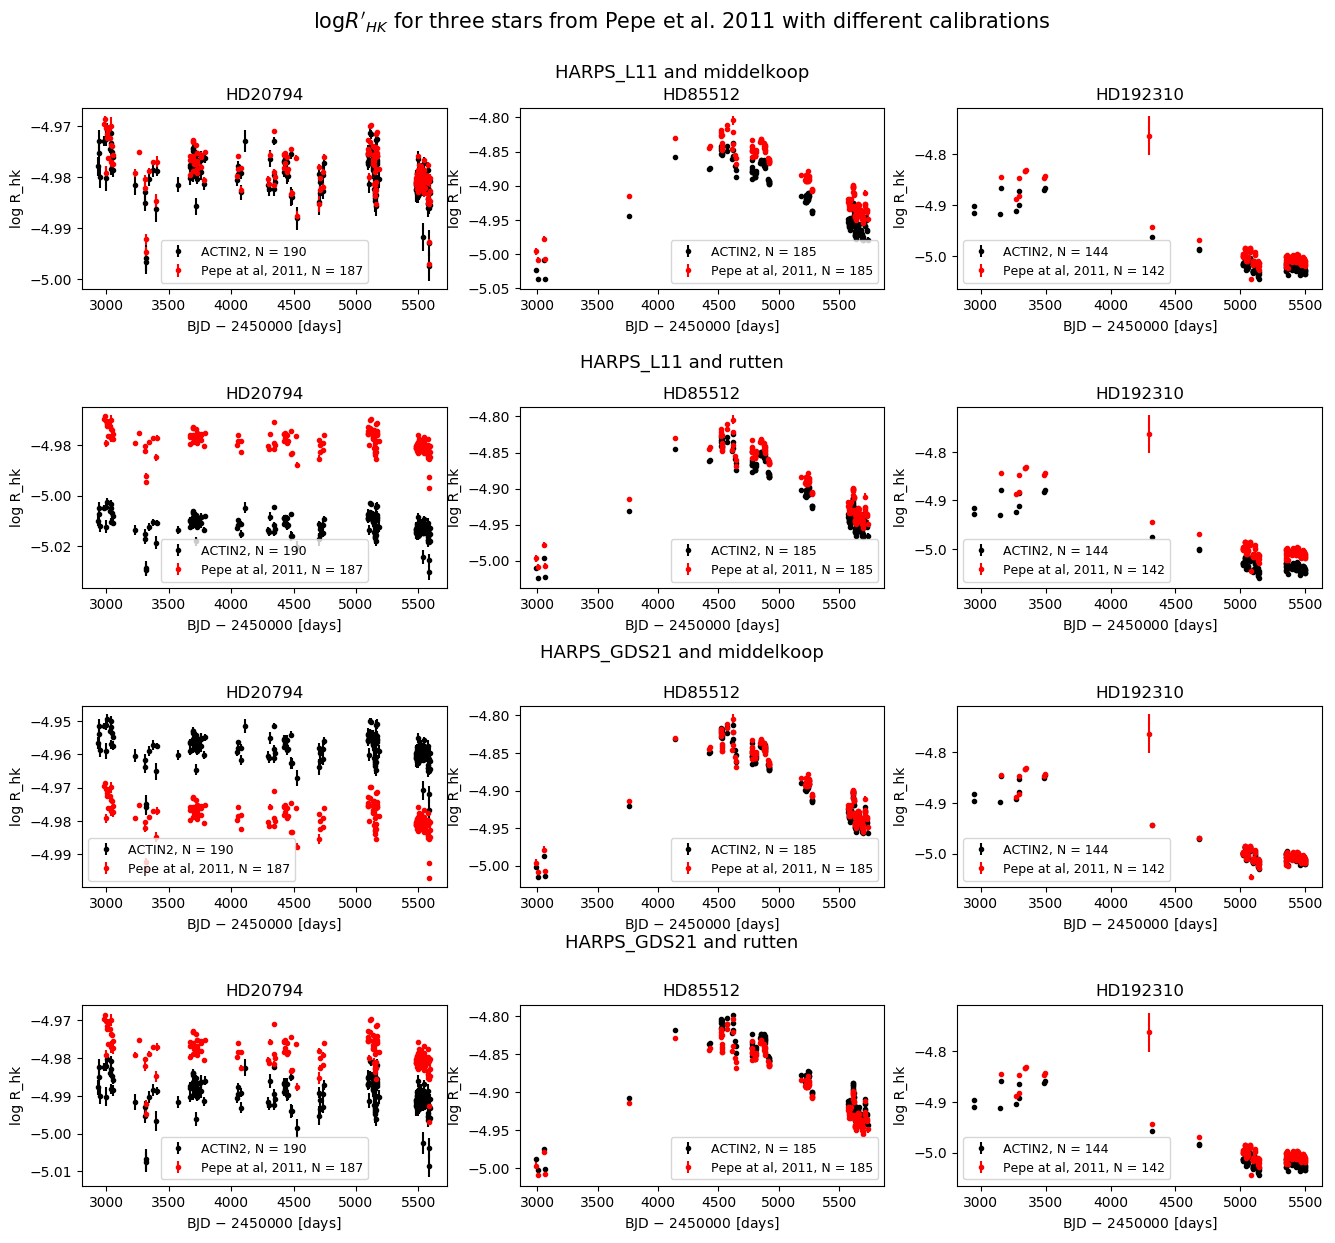
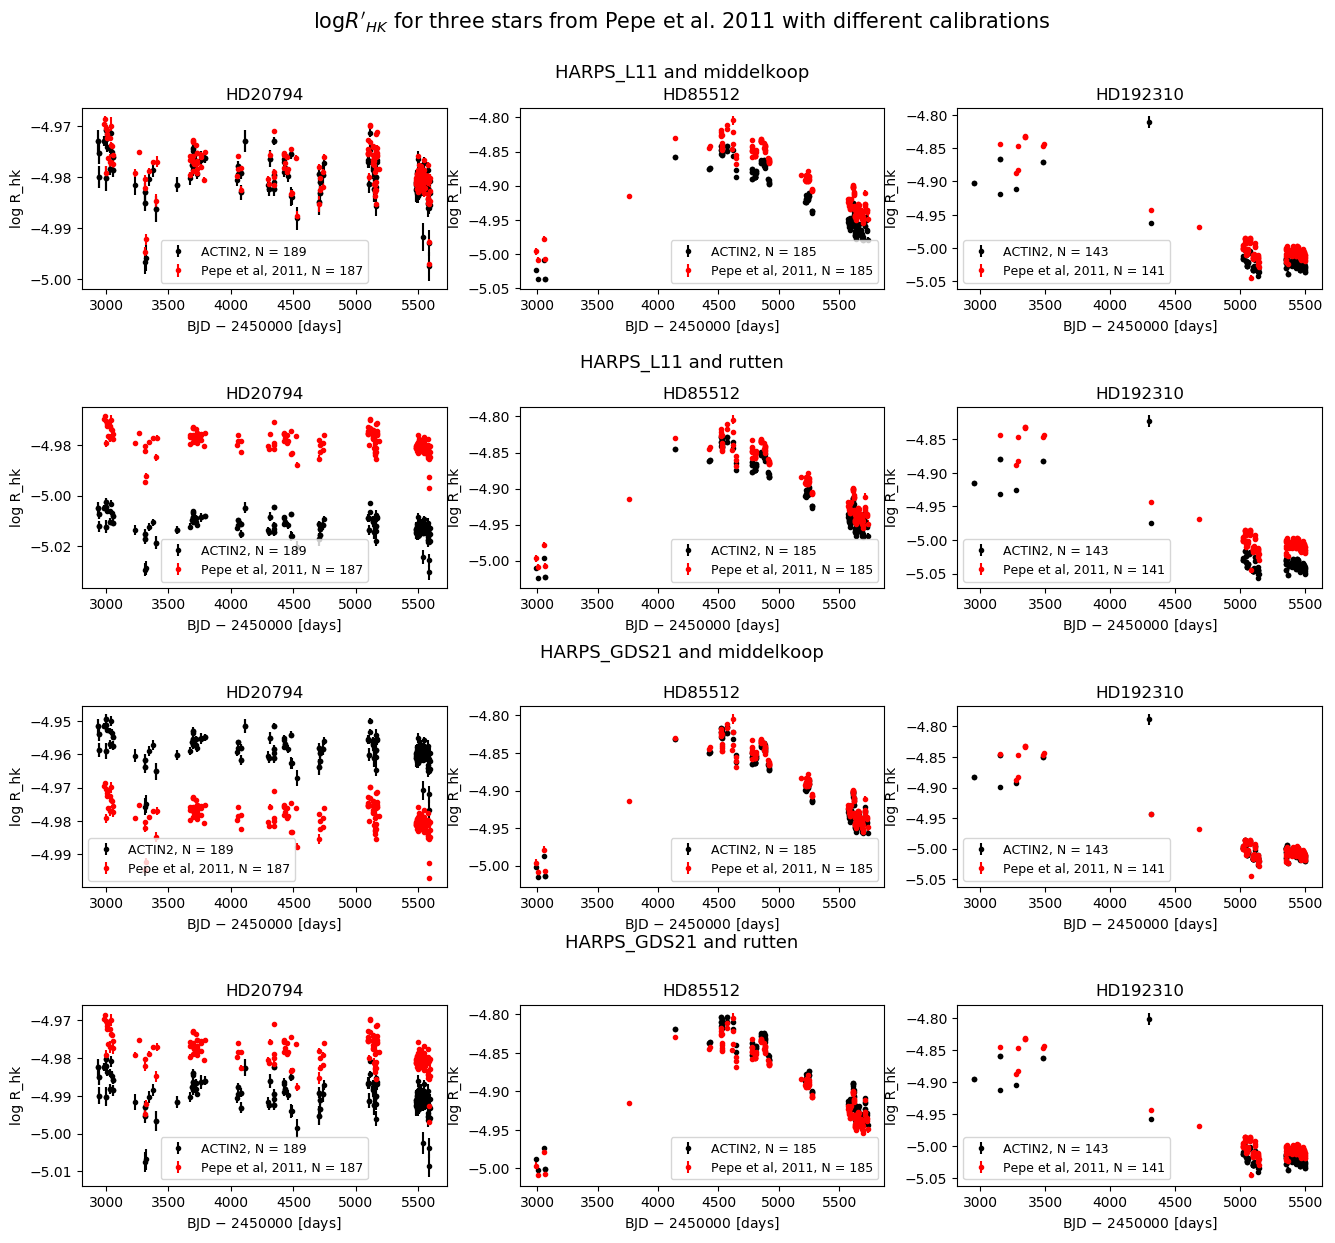
Add files via upload

diff --git a/pepe2011.py b/pepe2011.py
@@ -1,5 +1,6 @@
 from actin2.actin2 import ACTIN
 import glob, os, numpy as np, matplotlib.pylab as plt, astropy, pandas as pd
+from astropy.io import fits
 from pyrhk.pyrhk import calc_smw, get_bv, calc_rhk
 from util_funcs import _get_simbad_data, plot_RV_indices, stats_indice, sigma_clip
 '''
@@ -51,7 +52,7 @@ for i, star in enumerate(stars_list):
     #crude sigma clipping, couldnt apply directly with astropy
     cols = indices
     cols.append("rv")
-    df = sigma_clip(df, cols, sigma=4)
+    df = sigma_clip(df, cols, sigma=3.5)
 
     #visualize RV and three different indices
     plot_RV_indices(star, df, indices, save=True)
@@ -66,28 +67,33 @@ for i, star in enumerate(stars_list):
         smw, smw_err = calc_smw(caii=df["I_CaII"].values, caii_err=df["I_CaII_err"].values, instr=comb[0])
         bv, bv_err, bv_ref = get_bv(star, alerts=True)
         log_rhk, log_rhk_err, rhk, rhk_err = calc_rhk(smw, smw_err, bv, method=comb[1], evstage='MS')
-        bjd = np.array(df.bjd)
+        bjd = np.around(np.array(df.bjd))
 
         #get log R_hk of article Pepe et al 2011
-        fits_table_pepe2011= astropy.io.fits.open(f'pepe_2011/{star}/pepe2011_{star}.fit')
+        fits_table_pepe2011= fits.open(f'pepe_2011/{star}/pepe2011_{star}.fit')
         data = fits_table_pepe2011[1].data
         log_rhk_pepe2011 = np.array([data[x][-2] for x in range(len(data))]) #extract column in numpy format
         log_rhk_err_pepe2011 = np.array([data[x][-1] for x in range(len(data))])
-        BJD_pepe2011 = np.array([data[x][0] for x in range(len(data))])
+        BJD_pepe2011 = np.array([round(data[x][0]) for x in range(len(data))])
+
+        df_pepe = pd.DataFrame({"log_rhk":log_rhk_pepe2011,"log_rhk_err":log_rhk_err_pepe2011,"bjd":BJD_pepe2011})
+        df_pepe = sigma_clip(df_pepe, cols=df_pepe.columns, sigma=6.5)
 
         #visualize log R_hk from Pepe et al 2011 with obtained from ACTIN2
         axs[k, i].errorbar(bjd - 2450000, log_rhk, log_rhk_err, fmt='k.',
                                label=f"ACTIN2, N = {len(log_rhk)}")
-        axs[k, i].errorbar(BJD_pepe2011 - 2450000, log_rhk_pepe2011, log_rhk_err_pepe2011, fmt='r.',
-                               label=f"Pepe at al, 2011, N = {len(log_rhk_pepe2011)}")
+        axs[k, i].errorbar(df_pepe["bjd"] - 2450000, df_pepe["log_rhk"], df_pepe["log_rhk_err"], fmt='r.',
+                               label=f"Pepe et al, 2011, N = {len(df_pepe['log_rhk'])}")
         axs[k, i].set_ylabel("log R_hk")
         axs[k, i].set_xlabel("BJD $-$ 2450000 [days]")
         axs[k, i].set_title(star)
         axs[k, i].legend(loc="best",fontsize=9)
 
         if k == 0: #for the best combination
-            axs1[i].errorbar(bjd - 2450000, log_rhk, log_rhk_err, fmt='k.', label="ACTIN2, N = {}".format(len(log_rhk)))
-            axs1[i].errorbar(BJD_pepe2011 - 2450000, log_rhk_pepe2011, log_rhk_err_pepe2011, fmt='r.', label="Pepe at al, 2011, N = {}".format(len(log_rhk_pepe2011)))
+            axs1[i].errorbar(bjd - 2450000, log_rhk, log_rhk_err, fmt='k.', 
+                             label="ACTIN2, N = {}".format(len(log_rhk)))
+            axs1[i].errorbar(df_pepe["bjd"] - 2450000, df_pepe["log_rhk"], df_pepe["log_rhk_err"], fmt='r.', 
+                             label="Pepe at al, 2011, N = {}".format(len(df_pepe['log_rhk'])))
             axs1[i].set_ylabel("log R_hk")
             axs1[i].set_xlabel("BJD $-$ 2450000 [days]")
             axs1[i].set_title(star)

diff --git a/average_spec_night.py b/average_spec_night.py
@@ -26,25 +26,32 @@ for i, star in enumerate(stars_list):
 
             #group files by observation date
             file_groups = defaultdict(list)
+            dates_list = []
             for extension in extension_list:  #assuming the date is extracted correctly for extension files
                 files = [f for f in os.listdir(root_directory) if f.startswith(f'HARPS.') and f.endswith(f'{extension}.fits')]
                 for file in files:
-                    date = file.split('.')[1].split('T')[0]  #extract date from the filename
-                    file_groups[date].append(file)
+                    fits_file = fits.open(f"pepe_2011/{star}/"+file)
+                    date_bjd = fits_file[0].header["MJD-OBS"]  #extract date BJD from the filename
+                    del fits_file
+                    file_groups[round(date_bjd)].append(file)
+                    date = file.split('.')[1].split('T')[0]
+                    dates_list.append(date)
 
             #process each group
             for i, ext in enumerate(extension_list):
+                k = 0
                 for date, files in file_groups.items():
                     files = [x for x in files if ext in x]
                     #print(files)
 
-                    output_filename = f"average_{date}_{ext}.fits"
+                    output_filename = f"average_{dates_list[k]}_{ext}.fits"
                     output_path = os.path.join(output_directory, output_filename)
 
                     avg_data, hdr = create_average_spectrum(folder_path=root_directory, files=files, extension=None)
                     if type(avg_data) != int and type(hdr) != int: #crude way of checking if its in the correct type
                         fits.writeto(output_path, avg_data, header=hdr, overwrite=True, output_verify='ignore')
-                        print(f"{date} data processed")
+                        print(f"{dates_list[k]} data processed")
+                        k += 1
 
         elif p == "data/reduced": 
             root_directory = "/home/telmo/PEEC/ACTIN2/pepe_2011/{}/data/reduced/".format(star)
